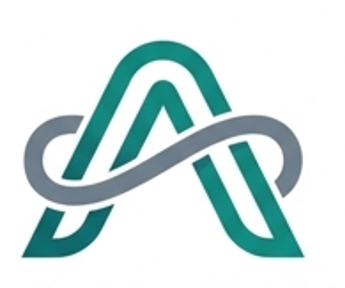
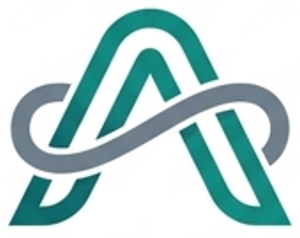
Stage 201.35–201.36: referral hub opens at top; promote denser brand mark.
Stop tab scrollIntoView from scrolling the window on mobile; use tighter-crop mark1 as SSOT and regenerate PWA icons.

diff --git a/components/referral/ReferralProfilePage.jsx b/components/referral/ReferralProfilePage.jsx
@@ -55,15 +55,25 @@ export function ReferralProfilePage() {
     if (!isAuthenticated) router.replace('/profile?login=true')
   }, [authLoading, isAuthenticated, router])
 
+  /**
+   * Horizontal-only tab chip centering. Do not use Element.scrollIntoView here —
+   * on mobile (Samsung/iOS) it also scrolls the window and hides the page header.
+   * Stage 201.35
+   */
   useEffect(() => {
+    if (referralLoading) return
+    if (typeof window !== 'undefined') {
+      window.scrollTo(0, 0)
+    }
     const el = tabsListRef.current
     if (!el) return
     const active = el.querySelector('[data-state="active"]')
-    if (active && typeof active.scrollIntoView === 'function') {
-      active.scrollIntoView({ block: 'nearest', inline: 'nearest' })
-    } else {
+    if (!active) {
       el.scrollLeft = 0
+      return
     }
+    const nextLeft = active.offsetLeft - (el.clientWidth - active.offsetWidth) / 2
+    el.scrollLeft = Math.max(0, Math.round(nextLeft))
   }, [referralLoading])
 
   useEffect(() => {

diff --git a/__tests__/stage200-133-referral-ux-plain-copy.test.js b/__tests__/stage200-133-referral-ux-plain-copy.test.js
@@ -15,13 +15,16 @@ function read(rel) {
 }
 
 describe('Stage 200.133 — referral UX plain copy', () => {
-  it('tabs list uses justify-start (not center) so first tab is scrollable into view', () => {
+  it('tabs list uses justify-start; horizontal scrollLeft only (no window scrollIntoView)', () => {
     const src = read('components/referral/ReferralProfilePage.jsx')
     assert.match(src, /TABS_LIST_CLASS[\s\S]*justify-start/)
-    assert.match(src, /inline:\s*['"]nearest['"]/)
+    assert.match(src, /el\.scrollLeft/)
+    assert.match(src, /window\.scrollTo\(0,\s*0\)/)
     // Comment may mention default justify-center; class must not apply it
     assert.match(src, /justify-start beats TabsList default justify-center/)
     assert.doesNotMatch(src, /TABS_LIST_CLASS\s*=\s*'[^']*justify-center/)
+    // scrollIntoView on the active tab scrolls the page vertically on mobile
+    assert.doesNotMatch(src, /active\.scrollIntoView/)
   })
 
   it('payout blockers never render raw machine codes to users', () => {

diff --git a/components/brand/airento-logo.jsx b/components/brand/airento-logo.jsx
@@ -15,14 +15,15 @@ export function AirentoLogo({
   hideLabelOnMobile = false,
 }) {
   const showLabel = Boolean(String(label || '').trim())
-  const markSize = compact ? 28 : 34
+  /** Stage 201.36 — mark1 fills the plate more; slightly larger glyph + tighter pad. */
+  const markSize = compact ? 30 : 36
   const boxSize = compact ? 'h-10 w-10' : 'h-12 w-12'
 
   return (
     <div className={cn('flex items-center gap-3', className)}>
       <div
         className={cn(
-          'grid place-items-center rounded-2xl bg-white p-1.5 ring-1 ring-slate-200 shadow-[0_10px_24px_rgba(0,102,102,0.16)] transition-opacity duration-300',
+          'grid place-items-center rounded-2xl bg-white p-1 ring-1 ring-slate-200 shadow-[0_10px_24px_rgba(0,102,102,0.16)] transition-opacity duration-300',
           boxSize,
           scrolled ? 'opacity-90' : 'opacity-100',
         )}

diff --git a/components/brand/airento-mark.jsx b/components/brand/airento-mark.jsx
@@ -3,6 +3,7 @@
 /**
  * Brand mark SSOT — raster from public/brand/airento-mark.png
  * (same asset as PWA icons via scripts/generate-pwa-icons.mjs).
+ * Stage 201.36 — promoted former airento-mark1 (tighter crop, denser glyph).
  */
 
 import { cn } from '@/lib/utils'

diff --git a/docs/TECHNICAL_MANIFESTO.md b/docs/TECHNICAL_MANIFESTO.md
@@ -1,6 +1,6 @@
 # Technical Manifesto (code-truth)
 
-> **Version**: 13.2.140 | **Last Updated**: 2026-08-14 | **Tip of tree:** Stage **203**; **201.34** listing health UX.
+> **Version**: 13.2.142 | **Last Updated**: 2026-08-15 | **Tip of tree:** Stage **203**; **201.36** brand mark.
 
 **Brand:** display name — **`getSiteDisplayName()`** (`NEXT_PUBLIC_SITE_NAME` / `SITE_DISPLAY_NAME`; prod **Airento**). i18n — **`{brand}`** (ADR §7a).
 
@@ -26,6 +26,17 @@
 ## Свежие дельты (держать коротким — последние волны)
 
 > Полные Stage-тексты: [`HISTORY.md`](./HISTORY.md) + [archive stage log](./archive/reports/TECHNICAL_MANIFESTO_STAGE_LOG.md).
+
+### Stage 201.36 — brand mark mark1 as SSOT
+
+- Compared `airento-mark.png` vs `airento-mark1.png`: same glyph (~286×223), mark1 has less canvas padding (ink ~40% vs ~29%) → reads larger/smoother in header.
+- Promoted mark1 → `public/brand/airento-mark.png` (legacy kept as `airento-mark-v1-legacy.png`); regenerated PWA/favicon via `scripts/generate-pwa-icons.mjs`.
+- `AirentoLogo`: mark 30/36 + `p-1` plate (was 28/34 + `p-1.5`).
+
+### Stage 201.35 — referral hub opens at top
+
+- `/profile/referral`: after load, `window.scrollTo(0, 0)`; tab chips use `TabsList.scrollLeft` only.
+- Removed `active.scrollIntoView` — on mobile it scrolled the window and hid the page header.
 
 ### Stage 201.34 — listing health weight + jump-to-step
 
@@ -241,7 +252,7 @@
 
 ### Stage 200.133 — referral UX plain copy / mobile pad
 
-- Tabs on `/profile/referral`: `justify-start` + soft `scrollIntoView` so the first tab is not clipped.
+- Tabs on `/profile/referral`: `justify-start` + horizontal `scrollLeft` (not `scrollIntoView` — see 201.35).
 - Wallet: more space between display-currency control and «Статус выплат».
 - Hide payout blocker machine codes (`BELOW_MIN_*`); localized tier names (Новичок / …).
 - User copy: no mid-market / rate lock / витринная наценка / storefront markup in referral (and partner midFx hint).

diff --git a/docs/HISTORY.md b/docs/HISTORY.md
@@ -6,6 +6,8 @@
 
 | Stage | Дата | Краткое описание | Статус |
 |-------|------|------------------|--------|
+| 201.36 | 2026-08-15 | Brand mark: promote airento-mark1 (tighter crop) as SSOT + regen PWA icons | Done |
+| 201.35 | 2026-08-15 | Referral hub: no window scrollIntoView on tabs; open at top | Done |
 | 201.34 | 2026-08-14 | Listing health: rules weight 15%; incomplete parts jump to wizard step | Done |
 | 201.33 | 2026-08-14 | Renter favorites product chrome + soft-back SSOT; settings phone field | Done |
 | 201.32 | 2026-08-14 | Public offer §6 claims + §7 RF applicable law; terms version 2026-08-14-v1 | Done |
